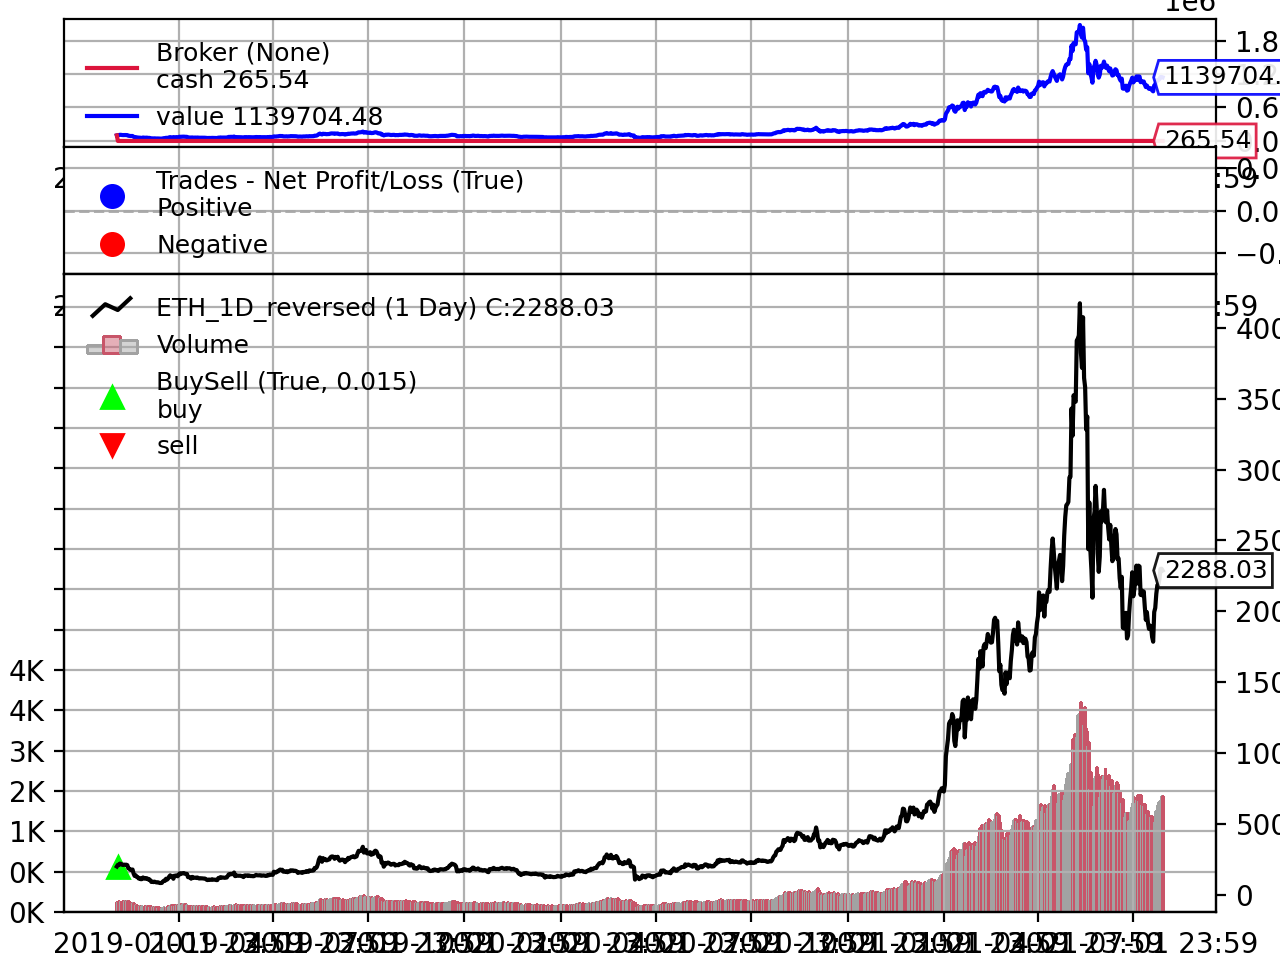
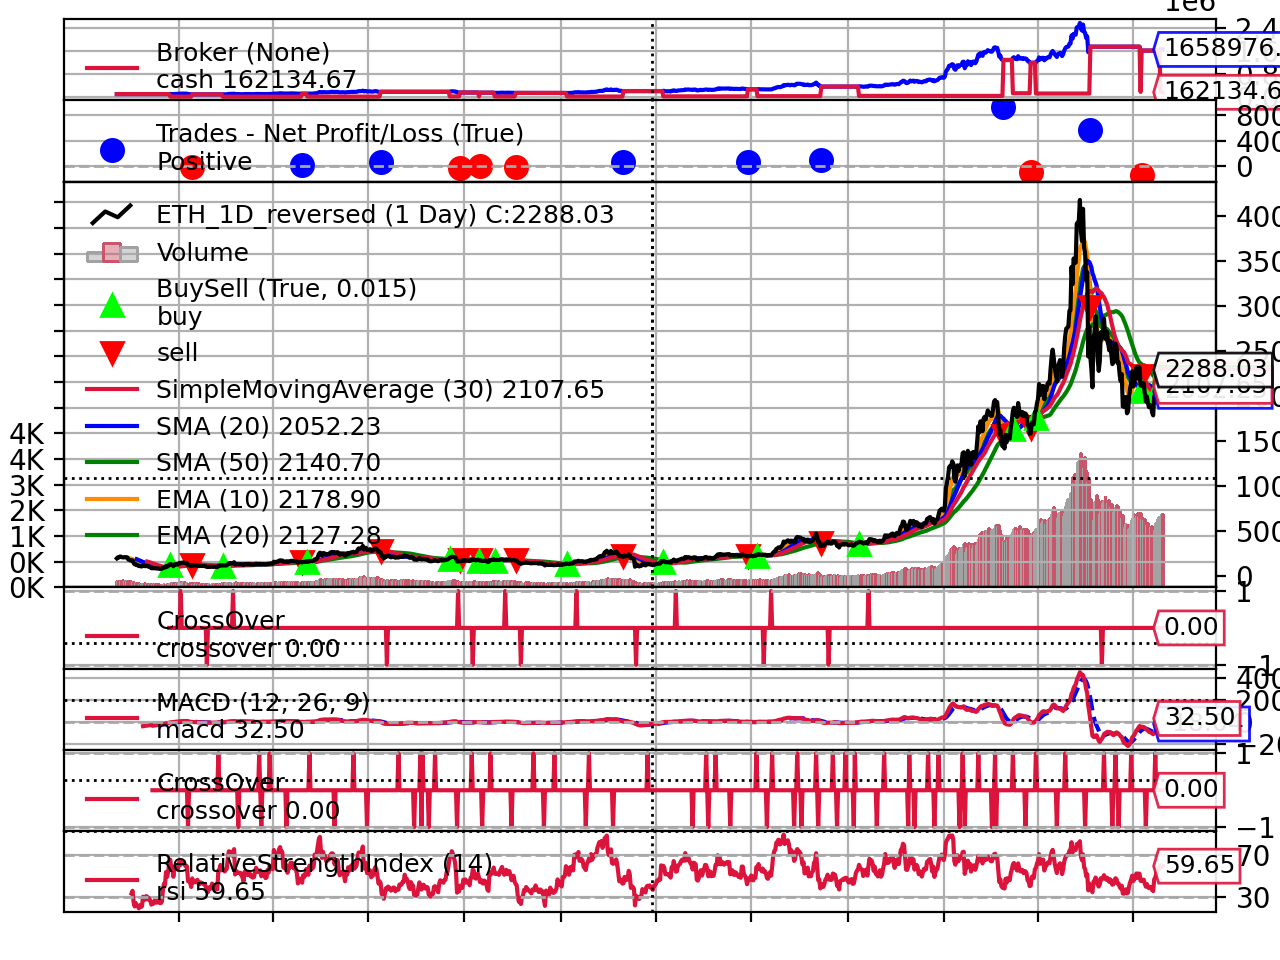
saving graphs of the trades

diff --git a/strategyClasses.py b/strategyClasses.py
@@ -46,7 +46,7 @@ class SimpleStrategy(bt.Strategy):
             # print("-------")
             self.log_csv = self.log_csv.append(df2)
         # print (self.log_csv)
-        
+
     def notify_order(self, order):
         if order.status in [order.Submitted, order.Accepted]:
             # Buy/Sell order submitted/accepted to/by broker - Nothing to do
@@ -122,6 +122,130 @@ class SimpleStrategy(bt.Strategy):
 
     def test_output(self):
         self.log_csv.to_csv(f'Data/{self.ticker}/{self.ticker}_{self.timeframe}_{self.strategy}.csv', index=False)
+
+
+
+class TestStrategy(bt.Strategy):
+    def __init__(self):
+        self.sma = bt.indicators.SimpleMovingAverage(self.data)
+        self.macd = bt.indicators.MACD(self.data)
+        # Cross of macd.macd and macd.signal
+        self.mcross = bt.indicators.CrossOver(self.macd.macd, self.macd.signal)
+        self.dataclose = self.datas[0].close
+        self.ma_fast = bt.indicators.SMA(period=20)
+        self.ma_slow = bt.indicators.SMA(period=50)
+        self.ema_fast = bt.indicators.EMA(period=10)
+        self.ema_slow = bt.indicators.EMA(period=20)
+        self.crossover = bt.ind.CrossOver(self.ma_fast, self.ma_slow)
+        self.order = None
+        self.buyprice = None
+        self.buycomm = None
+        self.rsi = bt.indicators.RelativeStrengthIndex()
+        self.log_csv = pd.DataFrame(columns=['date', 'order', 'price', 'cost', 'commission', 'gross', 'net'])
+        with open('config.json', 'r') as config_file:
+            data = json.load(config_file)
+        self.ticker = data['ticker']
+        self.timeframe = data['timeframe']
+        self.strategy = data['strategy']
+
+    # define log function
+    def log(self, txt=None, dt=None, order=None, price=None, cost=None, comission=None, gross=None, net=None):
+        ''' Logging function fot this strategy'''
+        dt = dt or self.datas[0].datetime.date(0)
+        # print('%s, %s' % (dt.isoformat(), txt))
+        if order != None:
+            df2 = pd.DataFrame({
+                'date': dt.isoformat(),
+                'order': order,
+                'price': price,
+                'cost': cost,
+                'comission': comission,
+                'gross': gross,
+                'net': net,
+            }, index=[0])
+            # print(df2)
+            # print("-------")
+            self.log_csv = self.log_csv.append(df2)
+        # print (self.log_csv)
+        
+    def notify_order(self, order):
+        if order.status in [order.Submitted, order.Accepted]:
+            # Buy/Sell order submitted/accepted to/by broker - Nothing to do
+            return
+
+        # Check if an order has been completed
+        # Attention: broker could reject order if not enough cash
+        if order.status in [order.Completed]:
+            if order.isbuy():
+                # self.log('BUY EXECUTED, Price: %.2f, Cost: %.2f, Comm %.2f' %
+                #     (order.executed.price,
+                #     order.executed.value,
+                #     order.executed.comm))
+                self.log(order='BUY', price=order.executed.price, cost=order.executed.value,
+                         comission=order.executed.comm)
+                self.buyprice = order.executed.price
+                self.buycomm = order.executed.comm
+            elif order.issell():
+
+                # self.log('SELL EXECUTED, Price: %.2f, Cost: %.2f, Comm %.2f' %
+                #     (order.executed.price,
+                #     order.executed.value,
+                #     order.executed.comm))
+                self.log(order='SELL', price=order.executed.price, cost=order.executed.value,
+                         comission=order.executed.comm)
+
+                self.bar_executed = len(self)
+
+        elif order.status in [order.Canceled, order.Margin, order.Rejected]:
+            self.log(f'Order Canceled/Margin/Rejected {order.Rejected} {order.Margin} {order.Canceled}')
+
+        # Write down: no pending order
+        self.order = None
+
+    def notify_trade(self, trade):
+        if not trade.isclosed:
+            return
+
+        # self.log('OPERATION PROFIT, GROSS %.2f, NET %.2f' % (trade.pnl, trade.pnlcomm))
+        self.log(order='CLOSE', gross=trade.pnl, net=trade.pnlcomm)
+
+    def is_positive(self):
+        if self.ma_fast > self.ma_slow:
+            if self.dataclose > self.ma_fast:
+                return True
+        elif self.ema_fast > self.ema_slow:
+            return True
+        return False
+
+    def is_negative(self):
+        if self.ma_fast < self.ma_slow:
+            if self.dataclose < self.ma_fast:
+                return True
+        elif self.ema_fast < self.ema_slow:
+            return True
+        return False
+
+    def next(self):
+        if self.order:
+            return
+        if not self.position:
+            if self.is_positive():
+                self.order = self.buy()
+            # elif self.is_negative():
+            #     self.order = self.sell()
+        else:
+            if self.position.size > 0:
+                if self.ema_fast < self.ema_slow:
+                    self.order = self.close()
+                elif self.dataclose < self.ema_slow:
+                    self.order = self.close()
+            # elif self.position.size < 0:
+            #     if self.ema_fast > self.ema_slow:
+            #         self.order = self.close()
+
+    def test_output(self):
+        self.log_csv.to_csv(f'Data/{self.ticker}/{self.ticker}_{self.timeframe}_{self.strategy}.csv', index=False)
+
 
 
 # Buy and Hold 

diff --git a/backtesting_functions.py b/backtesting_functions.py
@@ -15,13 +15,39 @@ import analizers
 file = ''
 
 
+
+
 # tickers = ['Aapl','Msft','Wmt','Nke','Sbux','Tsla','Gme','Amc','C','V','Jpm', 'BTC', 'ETH', 'XRP', 'BCH', 'LTC', 'ADA', 'MATIC']
 stocks = list()
 tickers = ['BTC', 'ETH']
 crypto = ['BTC','ETH']
 # timeframes = ["1D", '4H', '2H', '1H', '30min', '15min', '5min', '1min']
-timeframes = ["1D" ]
-strategies = [strategyClasses.SimpleStrategy, strategyClasses.BuyAndHold_1]
+timeframes = ["1D"]
+strategies = [strategyClasses.SimpleStrategy, strategyClasses.TestStrategy, strategyClasses.BuyAndHold_1]
+
+
+
+def saveplots(cerebro, numfigs=1, iplot=True, start=None, end=None,
+             width=16, height=9, dpi=300, tight=True, use=None, file_path = 'test', **kwargs):
+
+        from backtrader import plot
+        if cerebro.p.oldsync:
+            plotter = plot.Plot_OldSync(**kwargs)
+        else:
+            plotter = plot.Plot(**kwargs)
+
+        figs = []
+        for stratlist in cerebro.runstrats:
+            for si, strat in enumerate(stratlist):
+                rfig = plotter.plot(strat, figid=si * 100,
+                                    numfigs=numfigs, iplot=iplot,
+                                    start=start, end=end, use=use)
+                figs.append(rfig)
+
+        for fig in figs:
+            for f in fig:
+                f.savefig(file_path, bbox_inches='tight')
+        return figs
 
 
 # sample strategy used for plotting the data
@@ -42,13 +68,14 @@ def main (ticker, timeframe, strategy):
         elif ticker in crypto:
             data = alphaClasses.AlphaVDailyDataCrypto(dataname=f'data/{ticker}/{ticker}_{timeframe}_reversed.csv')
     elif timeframe == "5M":
-        data = alphaClasses.AlphaV5minData(dataname=f'data/{ticker}/{ticker}_{timeframe}_reversed.csv')
+        if ticker in stocks:
+            data = alphaClasses.AlphaV5minData(dataname=f'data/{ticker}/{ticker}_{timeframe}_reversed.csv')
+        elif ticker in crypto:
+            data = alphaClasses.AlphaVIntradayDataCrypto(dataname=f'data/{ticker}/{ticker}_{timeframe}_reversed.csv')        
     elif timeframe == "15M":
         data = alphaClasses.AlphaV15minData(dataname=f'data/{ticker}/{ticker}_{timeframe}_reversed.csv')
     elif timeframe == "1H":
         data = alphaClasses.AlphaVHourlyData(dataname=f'data/{ticker}/{ticker}_{timeframe}_reversed.csv')
-    elif timeframe == "1DC":
-        data = alphaClasses.AlphaVDailyDataCrypto(dataname=f'data/{ticker}/{ticker}_{timeframe}_reversed.csv')
     elif timeframe == "60min":
         data = alphaClasses.AlphaVIntradayDataCrypto(dataname=f'data/{ticker}/{ticker}_{timeframe}_reversed.csv')    
     else:
@@ -59,7 +86,7 @@ def main (ticker, timeframe, strategy):
 
     cerebro.adddata(data)
     cerebro.broker.set_cash(100000.0)
-    cerebro.addsizer(bt.sizers.PercentSizer, percents=90)
+    cerebro.addsizer(bt.sizers.PercentSizer, percents=95)
     cerebro.addstrategy(strategy)
     # Add Analyzers
     cerebro.addanalyzer(bt.analyzers.SharpeRatio, _name='mysharpe', timeframe= bt.TimeFrame.Months)
@@ -72,8 +99,9 @@ def main (ticker, timeframe, strategy):
 
     # for result in results:
     #     result.test_output()
-
-    figure = cerebro.plot()[0][0].savefig('data/TSLA/example.png')
+    date_file = datetime.datetime.now()
+    dt_string = date_file.strftime("%Y-%m-%d_%H:%M")
+    saveplots(cerebro, file_path = f'results/graphs/{ticker}_{timeframe}_{dt_string}.png') #run it
     print('Final Portfolio Value: %.2f' % cerebro.broker.getvalue())
     testresults_dict['total_return'] = 100 * (cerebro.broker.getvalue() - 100000)/100000
     return testresults_dict
@@ -91,4 +119,4 @@ if __name__ == '__main__':
     print(log_df.tail())
     date_file = datetime.datetime.now()
     dt_string = date_file.strftime("%Y-%m-%d_%H:%M")
-    log_df.to_csv(f'result_overview_{dt_string}.csv', index = False)
+    log_df.to_csv(f'results/result_overview_{dt_string}.csv', index = False)
